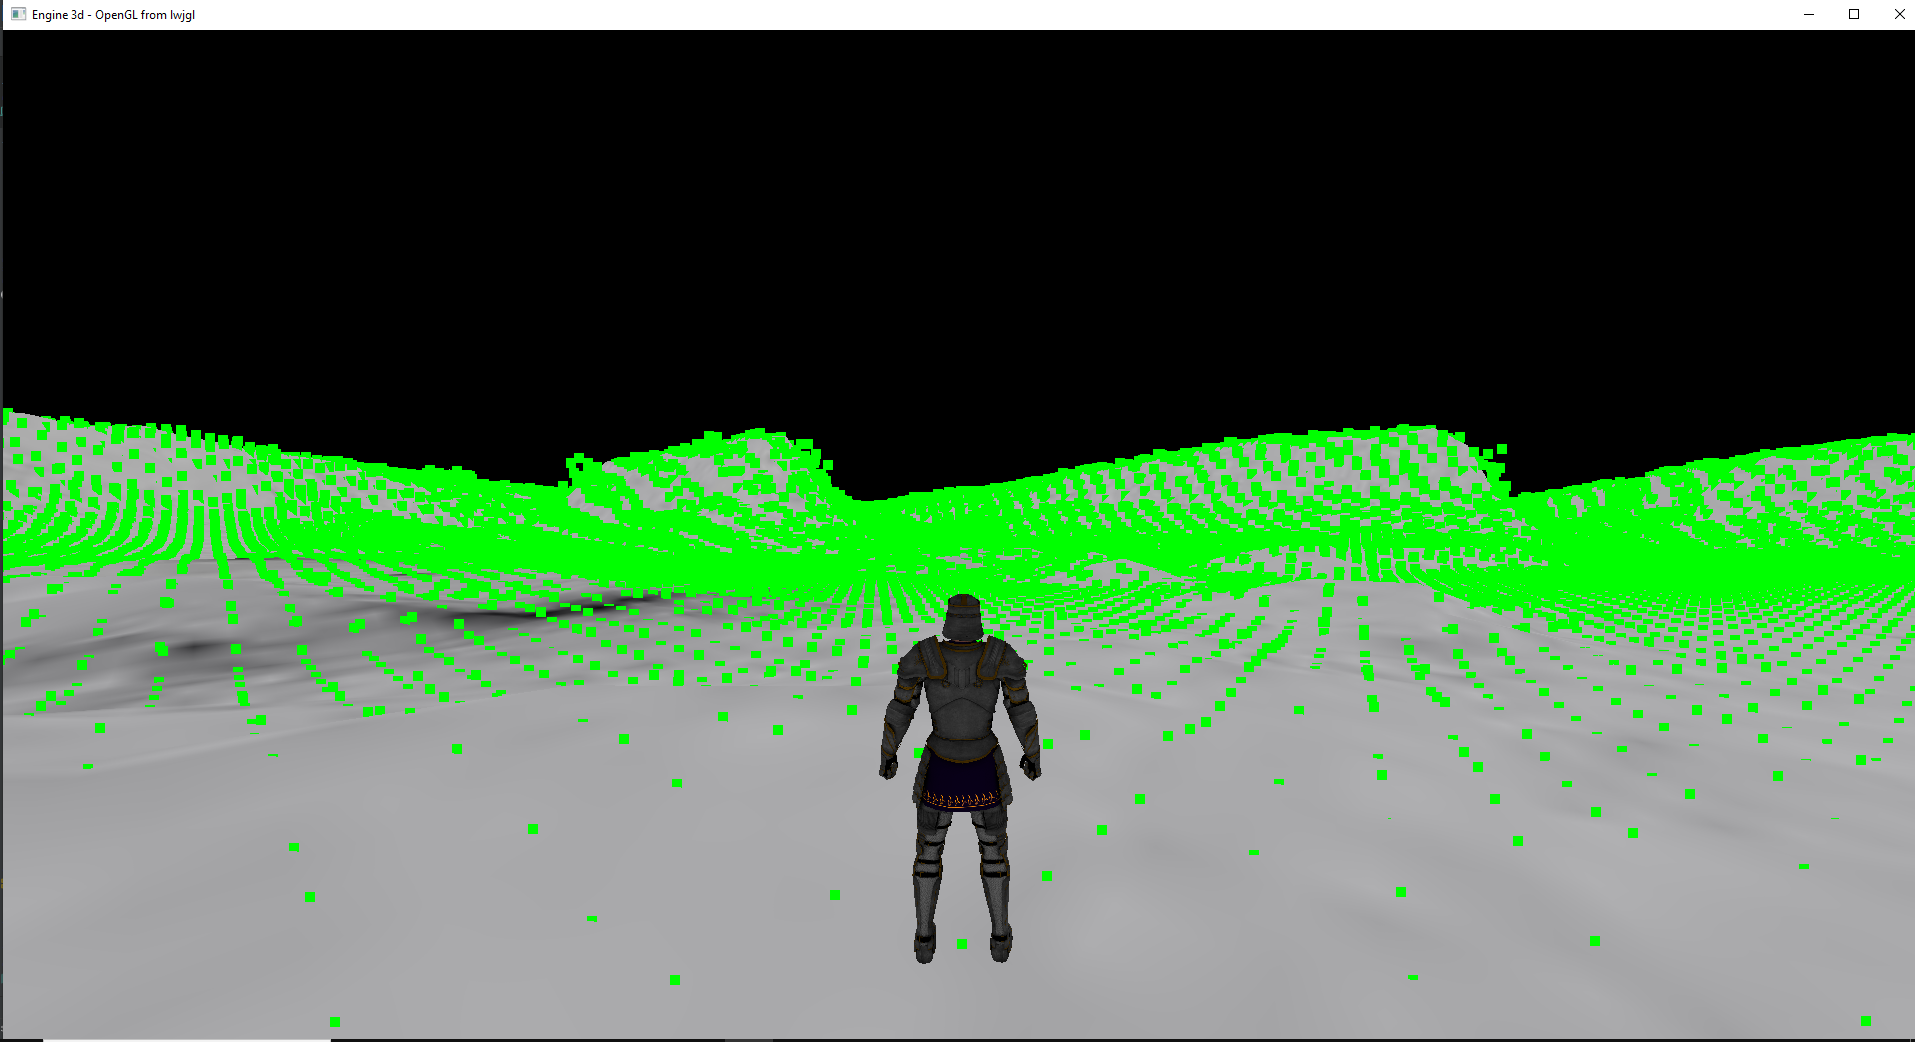
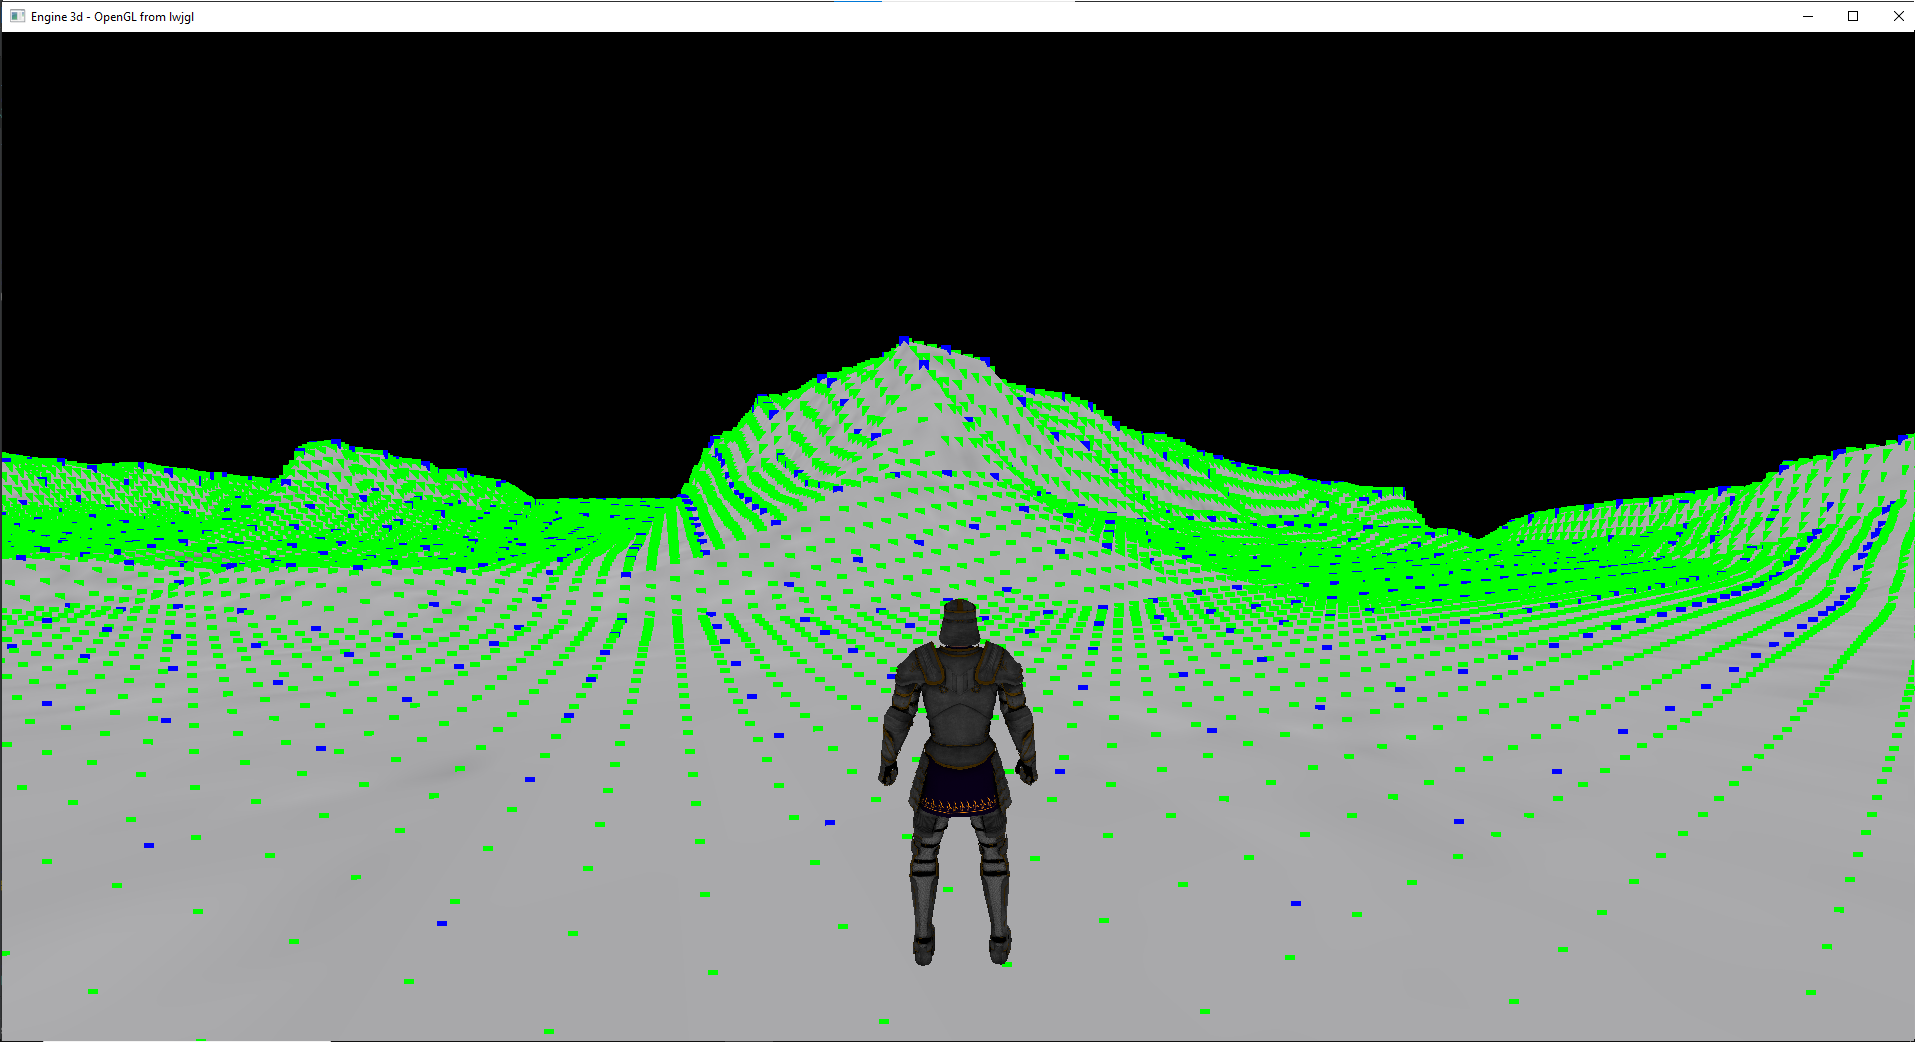
Fixed generating height map

diff --git a/src/main/java/pl/engine/mmorpg/terrain/TerrainMeshHeightMapGenerator.java b/src/main/java/pl/engine/mmorpg/terrain/TerrainMeshHeightMapGenerator.java
@@ -200,7 +200,8 @@ public class TerrainMeshHeightMapGenerator {
 
                 future.get();
             }
-        } catch (InterruptedException | ExecutionException e) {
+        }
+        catch (InterruptedException | ExecutionException e) {
             e.printStackTrace();
         }
 
@@ -320,16 +321,13 @@ public class TerrainMeshHeightMapGenerator {
 
     private static void loadBarycentricParams(Vector3f a, Vector3f b, Vector3f c, Vector3f point, float[] barycentricParams){
 
-        float v0x = b.x - a.x;
-        float v0z = b.z - a.z;
-        float v1x = c.x - a.x;
-        float v1z = c.z - a.z;
-        float v2x = point.x - a.x;
-        float v2z = point.z - a.z;
+        float bcZ = b.z - c.z;
+        float acX = a.x - c.x;
+        float cbx = c.x - b.x;
+        float acZ = a.z - c.z;
+        float determinant = bcZ * acX + cbx * acZ;
 
-        float denominator = v0x * v1z - v1x * v0z;
-
-        if (denominator == 0f) {
+        if (determinant == 0f) {
 
             barycentricParams[0] = -1;
             barycentricParams[1] = -1;
@@ -338,8 +336,12 @@ public class TerrainMeshHeightMapGenerator {
             return;
         }
 
-        float alpha = (v2x * v1z - v1x * v2z) / denominator;
-        float beta = (v0x * v2z - v2x * v0z) / denominator;
+        float pcX = point.x - c.x;
+        float pcZ = point.z - c.z;
+        float caZ = c.z - a.z;
+
+        float alpha = (bcZ * pcX + cbx * pcZ) / determinant;
+        float beta = (caZ * pcX + acX * pcZ) / determinant;
         float gamma = 1.0f - alpha - beta;
 
         barycentricParams[0] = alpha;

diff --git a/src/main/java/pl/engine/mmorpg/terrain/HeightMapVisualizeMesh.java b/src/main/java/pl/engine/mmorpg/terrain/HeightMapVisualizeMesh.java
@@ -22,7 +22,7 @@ public class HeightMapVisualizeMesh extends VisualizeMesh {
 
         for(int xI = 0, vertexIndex = 0; xI < xNumberOfPoints; xI++){
 
-            for(int zI = 0; zI < zNumberOfPoints; zI++){
+            for(int zI = 0; zI < zNumberOfPoints; zI++, vertexIndex += 3){
 
                 vertices[vertexIndex] =  minX + xI;
 
@@ -34,8 +34,6 @@ public class HeightMapVisualizeMesh extends VisualizeMesh {
 
                 vertices[vertexIndex + 1] = heightMap.get(key);
                 vertices[vertexIndex + 2] = minZ + zI;
-
-                vertexIndex += 3;
             }
         }
 

diff --git a/README.md b/README.md
@@ -6,7 +6,7 @@ Implemented:
 * Moving camera,
 * Skeletal animation (Rigging) with jgltf (for assimp almost works but is a little 
   bugged, for example head of person is in other place),
-* Simple generating height map for gravity - it needs few fixes,
+* Generating height map from glb terrain for gravity,
 * Moving player 3d model with camera,
 * Basic animations of players movement,
 * Rendering test grass floor.
